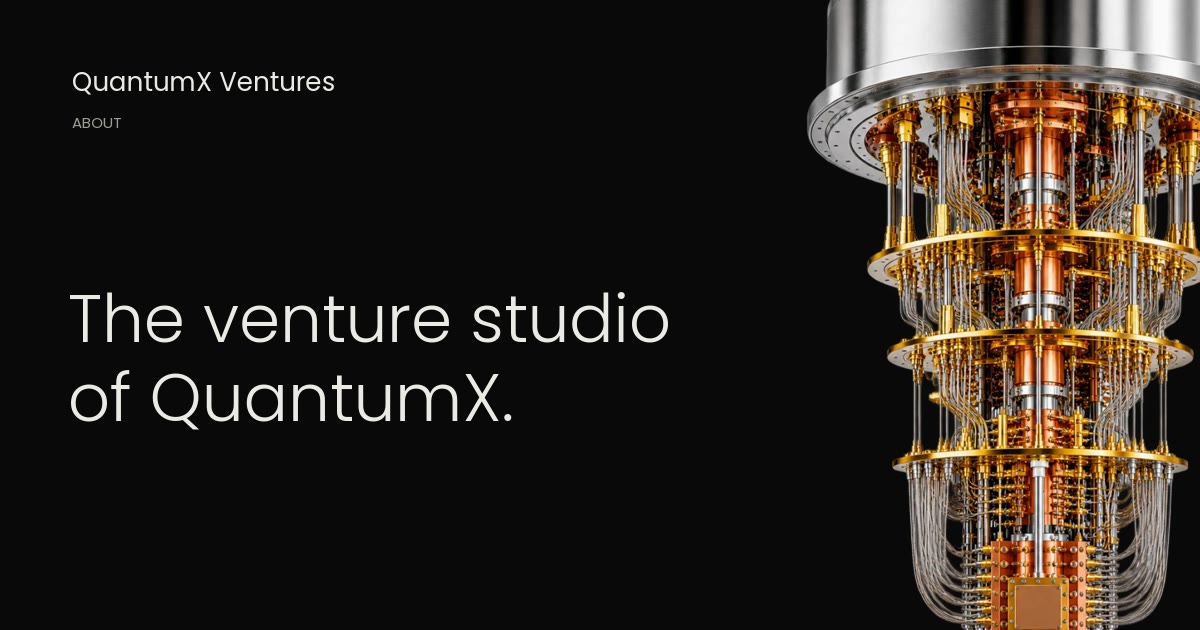
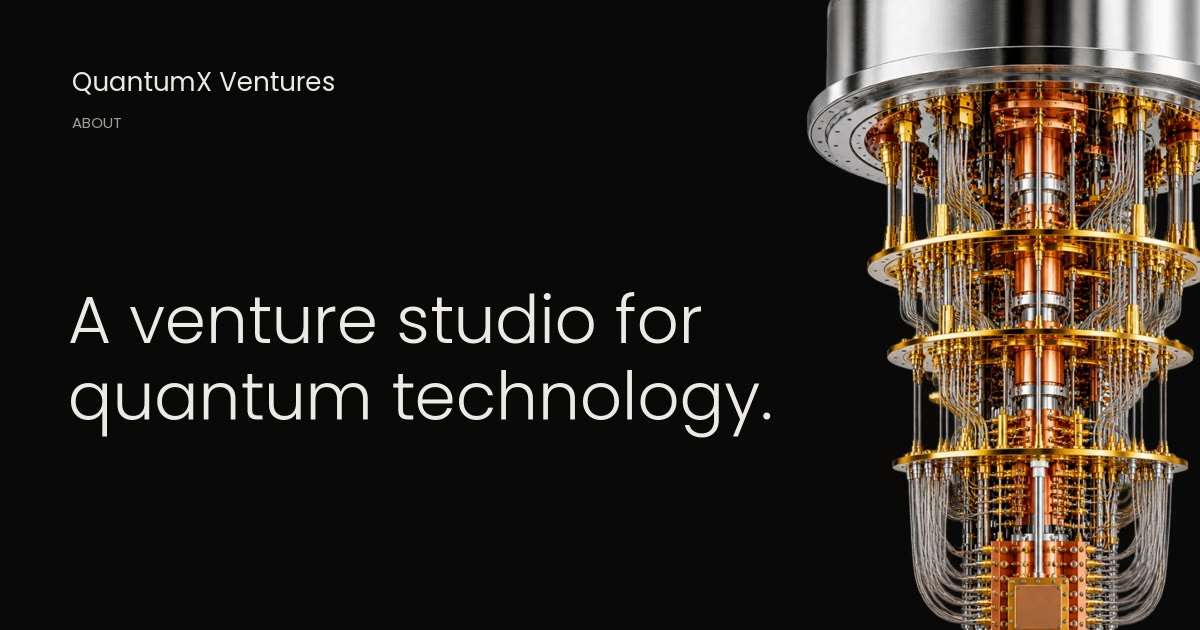
Position QuantumX Ventures as an independent venture studio
Replace "the venture studio of QuantumX Foundation" framing with
"a venture studio for quantum technology" across copy, meta descriptions,
the About page and share image, footer and ecosystem section. Ventures is
presented as part of the wider QuantumX ecosystem, not a subsidiary, and
the parentOrganization link is removed from structured data.

Changed region(s): [[0.0617, 0.573, 0.6475, 0.6937], [0.0617, 0.4524, 0.5858, 0.5429]]

diff --git a/app/about/page.tsx b/app/about/page.tsx
@@ -12,16 +12,16 @@ import { JsonLd } from '@/components/json-ld';
 import { breadcrumbSchema, graph, webPageSchema, peopleSchema } from '@/lib/structured-data';
 
 const seo = {
-  title: 'About the Venture Studio of QuantumX',
-  socialTitle: 'The venture studio of QuantumX.',
+  title: 'About the Studio',
+  socialTitle: 'A venture studio for quantum technology.',
   description:
-    'QuantumX Ventures is the venture studio of QuantumX Foundation, a Bengaluru deep-tech company building quantum technology, quantum education and community.',
+    'QuantumX Ventures is a quantum technology venture studio in Bengaluru, building companies with researchers, founders and engineers in the QuantumX ecosystem.',
   path: '/about/',
 };
 
 export const metadata: Metadata = pageMetadata({
   ...seo,
-  image: { slug: 'about', alt: 'The venture studio of QuantumX. About QuantumX Ventures.' },
+  image: { slug: 'about', alt: 'A venture studio for quantum technology. About QuantumX Ventures.' },
 });
 
 const structuredData = graph(
@@ -36,8 +36,8 @@ export default function AboutPage() {
       <JsonLd data={structuredData} />
       <PageIntro
         label="About"
-        title="The venture studio of QuantumX."
-        lead={`${site.name} is where ${site.parent.name} turns quantum research, technology and talent into companies. It sits alongside QuantumX Technology, QuantumX School and QuantumX Community, and draws on all three.`}
+        title="A venture studio for quantum technology."
+        lead={`${site.name} turns quantum research, technology and talent into companies. It is part of the wider QuantumX ecosystem, alongside QuantumX Technology, QuantumX School and QuantumX Community, and draws on all three.`}
       />
 
       <EcosystemSection index="01" />
@@ -60,13 +60,13 @@ export default function AboutPage() {
             <div className="group relative aspect-[3/2] overflow-hidden bg-raised">
               <Image
                 src="/images/foundation-launch.webp"
-                alt="The QuantumX team on stage holding the QuantumX banner at the official launch of QuantumX Foundation"
+                alt="The QuantumX team on stage holding the QuantumX banner at the official launch of QuantumX in Bengaluru"
                 fill
                 sizes="(min-width: 1024px) 55vw, 100vw"
                 className="img-mono object-cover"
               />
             </div>
-            <figcaption className="mt-4 text-sm text-subtle">Official launch of QuantumX Foundation, Bengaluru.</figcaption>
+            <figcaption className="mt-4 text-sm text-subtle">Official launch of QuantumX, Bengaluru.</figcaption>
           </figure>
         </div>
       </Section>

diff --git a/content/site.ts b/content/site.ts
@@ -13,7 +13,7 @@ export const site = {
   tagline: 'Building the next generation of quantum companies.',
   /** Default meta description. Keep under 160 characters. */
   description:
-    'QuantumX Ventures is the venture studio of QuantumX Foundation, building and scaling quantum technology companies with researchers, founders and engineers.',
+    'QuantumX Ventures is a venture studio for quantum technology, building and scaling quantum companies with the researchers, founders and engineers behind them.',
   /**
    * Contact inbox. There is no Ventures-specific address yet, so this uses the
    * QuantumX Foundation team inbox. Replace it when a Ventures inbox exists.
@@ -45,15 +45,16 @@ export const site = {
     'quantum sensing',
     'quantum software',
     'research commercialisation',
-    'QuantumX Foundation',
+    'QuantumX',
     'Bengaluru',
     'India',
   ],
-  parent: {
+  /** Sister organisation in the QuantumX ecosystem. Linked, not presented as a parent. */
+  foundation: {
     name: 'QuantumX Foundation',
     url: 'https://quantumx.foundation/',
   },
-  /** The parent organisation's privacy policy, which covers this site's forms. */
+  /** The QuantumX privacy policy, which covers this site's forms. */
   privacyUrl: 'https://quantumx.foundation/privacy/',
   social: [
     { label: 'X', handle: '@_Quantum_X_', href: 'https://x.com/_Quantum_X_' },

diff --git a/components/site-footer.tsx b/components/site-footer.tsx
@@ -70,12 +70,12 @@ export function SiteFooter() {
               ))}
               <li>
                 <a
-                  href={site.parent.url}
+                  href={site.foundation.url}
                   target="_blank"
                   rel="noopener noreferrer"
                   className="group inline-flex min-h-11 items-center gap-1.5 text-ink/85 hover:text-ink md:min-h-8"
                 >
-                  <span className="link-underline">{site.parent.name}</span>
+                  <span className="link-underline">{site.foundation.name}</span>
                   <ArrowUpRight className="h-3 w-3 text-subtle group-hover:text-ink" />
                 </a>
               </li>
@@ -93,11 +93,7 @@ export function SiteFooter() {
 
         <div className="mt-10 flex flex-col gap-4 border-t border-line py-8 text-sm text-muted sm:flex-row sm:items-center sm:justify-between">
           <p className="max-w-md">
-            {site.name} is the venture studio of{' '}
-            <a href={site.parent.url} target="_blank" rel="noopener noreferrer" className="text-ink/85 hover:text-ink">
-              {site.parent.name}
-            </a>
-            .
+            {site.name}. A venture studio building the next generation of quantum companies.
           </p>
           <div className="flex items-center gap-6">
             <p>

diff --git a/content/ecosystem.ts b/content/ecosystem.ts
@@ -14,8 +14,8 @@ export type Pillar = {
 };
 
 export const ecosystemIntro = {
-  heading: 'Part of a working quantum ecosystem',
-  body: 'QuantumX Foundation is a deep-tech company building an open, accessible and reliable quantum future. It designs quantum and post-quantum technology, trains quantum talent, and grows a global community around both. The studio is where that work becomes companies.',
+  heading: 'Built inside a working quantum ecosystem',
+  body: 'QuantumX Ventures works within the wider QuantumX ecosystem, which designs quantum and post-quantum technology, trains quantum talent and grows a global community around both. Every venture starts with access to that engineering depth, talent and network.',
 } as const;
 
 export const pillars: readonly Pillar[] = [
@@ -71,5 +71,5 @@ export const shippedTechnology: readonly { name: string; description: string; hr
 
 export const launchMilestone = {
   heading: 'Officially launched',
-  body: "QuantumX Foundation was officially launched by the Hon'ble Chief Minister of Karnataka, Shri D.K. Shivakumar, joining Karnataka's Quantum Mission.",
+  body: "QuantumX was officially launched by the Hon'ble Chief Minister of Karnataka, Shri D.K. Shivakumar, joining Karnataka's Quantum Mission.",
 } as const;

diff --git a/lib/structured-data.ts b/lib/structured-data.ts
@@ -11,7 +11,7 @@ const abs = (path: string) => new URL(path, site.url).toString();
 export const ids = {
   organization: abs('/#organization'),
   website: abs('/#website'),
-  parent: `${site.parent.url}#organization`,
+  foundation: `${site.foundation.url}#organization`,
 };
 
 export function organizationSchema() {
@@ -27,7 +27,6 @@ export function organizationSchema() {
     slogan: site.tagline,
     email: site.email,
     address: { '@type': 'PostalAddress', ...site.address },
-    parentOrganization: { '@type': 'Organization', '@id': ids.parent, name: site.parent.name, url: site.parent.url },
     founder: people.map((p) => ({ '@type': 'Person', name: p.name, jobTitle: p.role })),
     knowsAbout: [
       'Quantum computing',
@@ -120,7 +119,7 @@ export function insightsListSchema(items: readonly Insight[]) {
         description: item.description,
         datePublished: item.date,
         url: item.href,
-        publisher: { '@type': 'Organization', '@id': ids.parent, name: item.publisher },
+        publisher: { '@type': 'Organization', '@id': ids.foundation, name: item.publisher },
       },
     })),
   };

diff --git a/content/studio.ts b/content/studio.ts
@@ -8,7 +8,7 @@
 
 export const studioIntro = {
   statement:
-    'QuantumX Ventures is the venture studio of QuantumX Foundation. We start companies alongside the people doing the science, instead of waiting to invest in them later.',
+    'QuantumX Ventures is a venture studio for quantum technology. We start companies alongside the people doing the science, instead of waiting to invest in them later.',
   body: [
     'Quantum technology rarely fails for lack of good research. It stalls in the gap between a working result and a company that can carry it: a team, a product, a first customer, and the patience to get there.',
     'A venture studio exists to close that gap. We work with researchers, founders and engineers from the earliest stage, contributing people, technical work and company-building support, then stay involved as the venture grows.',

diff --git a/components/sections/ecosystem.tsx b/components/sections/ecosystem.tsx
@@ -52,7 +52,7 @@ export function EcosystemSection({ index = '06', showShipped = true }: { index?:
           <div className="col-span-12 lg:col-span-3" data-reveal>
             <h3 className="eyebrow">Already built at QuantumX</h3>
             <p className="mt-4 max-w-xs text-sm leading-relaxed text-subtle">
-              Technology released by QuantumX Foundation. Evidence of how the team builds, not studio ventures.
+              Technology built across the QuantumX ecosystem. Evidence of how the team builds, not studio ventures.
             </p>
           </div>
           <ul className="col-span-12 border-b border-line lg:col-span-9">

diff --git a/app/layout.tsx b/app/layout.tsx
@@ -31,7 +31,7 @@ export const metadata: Metadata = {
   keywords: [...site.keywords],
   authors: [{ name: site.name, url: site.url }],
   creator: site.name,
-  publisher: site.parent.name,
+  publisher: site.name,
   category: 'technology',
   formatDetection: { telephone: false, address: false, email: false },
   // Pages set their own canonical. None here, so error pages do not claim the homepage.
